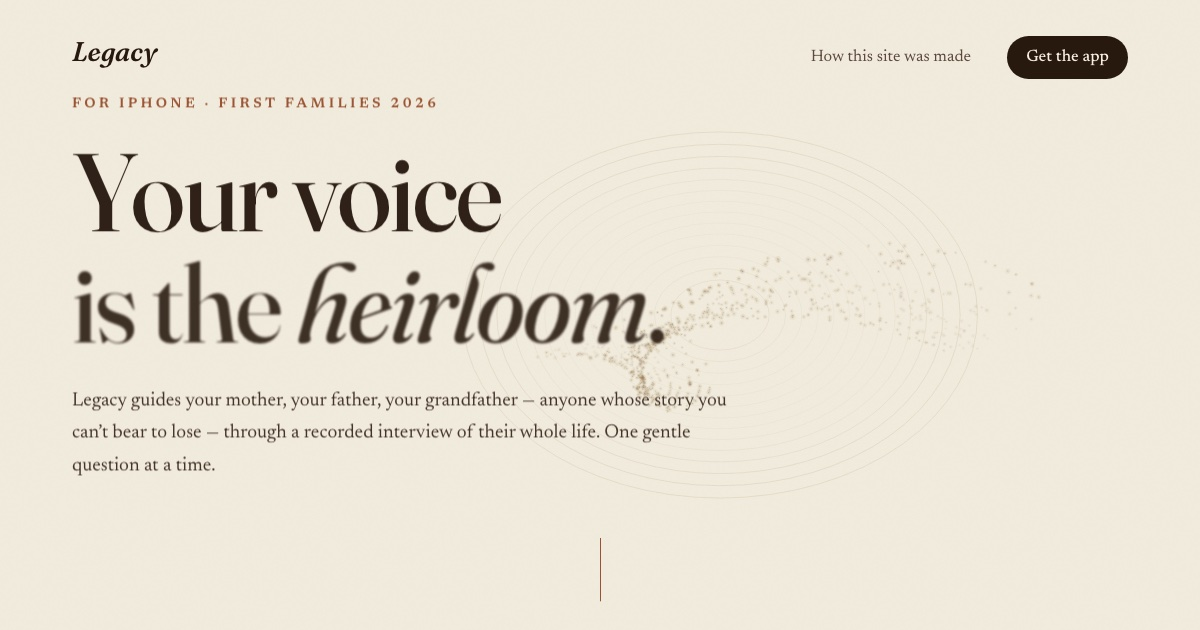
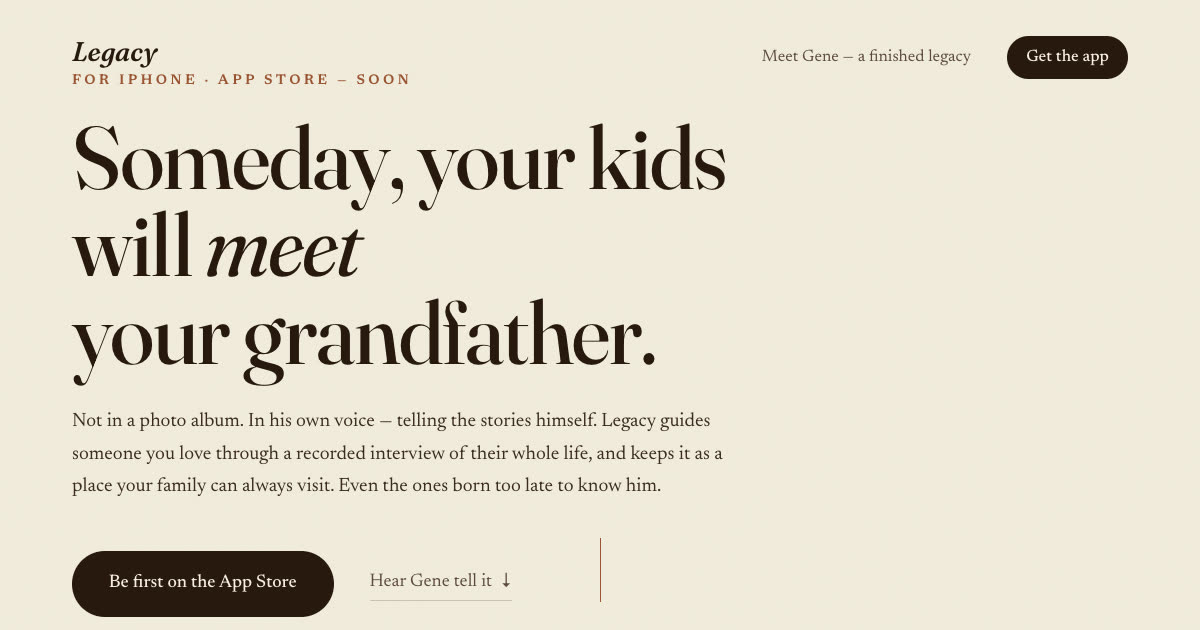
One narrative: Gene everywhere, $99 flat pricing
- Listening room: Gene's yellow-dress answer + porch-swing living picture
- Keepsake mockup now previews the real /example page
- Nav links to Meet Gene instead of the build guide
- Pricing: $99 once, no subscription (free chapters I–II unchanged)
- Fresh og image from the new hero

diff --git a/index.html b/index.html
@@ -32,7 +32,7 @@
 <header class="masthead">
   <a class="wordmark" href="/">Legacy</a>
   <nav aria-label="Site">
-    <a class="nav-link" href="/guide/">How this site was made</a>
+    <a class="nav-link" href="/example/">Meet Gene — a finished legacy</a>
     <a class="nav-cta" href="#waitlist">Get the app</a>
   </nav>
 </header>
@@ -55,7 +55,7 @@
     </p>
     <div class="hero-actions reveal">
       <a class="btn-primary" href="#waitlist">Be first on the App&nbsp;Store</a>
-      <a class="btn-quiet" href="/example/">Meet Gene — a finished legacy<span class="arrow">→</span></a>
+      <a class="btn-quiet" href="#listen">Hear Gene tell it<span class="arrow">↓</span></a>
     </div>
     <div class="scroll-cue" aria-hidden="true"><span></span></div>
   </section>
@@ -147,18 +147,18 @@
 
   <!-- ── IV · THE LISTENING ROOM ──────────────────────────────── -->
   <section class="listening" id="listen" data-scene="wave">
-    <p class="kicker reveal">Chapter one · Early life</p>
+    <p class="kicker reveal">Chapter six · Marriage</p>
     <div class="listening-grid">
       <figure class="portrait reveal">
         <video id="portraitVideo" playsinline muted loop preload="none"
-               poster="/assets/img/portrait.jpg" aria-label="An old sepia photograph of Henry, smiling beside a farmhouse window, gently coming to life"></video>
-        <figcaption>Henry, beside the kitchen window.</figcaption>
+               poster="/assets/img/gene-swing.jpg" aria-label="Gene and Dot laughing together on their porch swing, gently coming to life"></video>
+        <figcaption>Gene and Dot, their sixty-second summer.</figcaption>
       </figure>
       <div class="player-column">
-        <p class="asked reveal"><em>“Where were you born? What were the
-        circumstances surrounding your birth?”</em></p>
+        <p class="asked reveal"><em>“How did you meet your spouse? What were
+        your first impressions?”</em></p>
         <div class="player reveal" id="player">
-          <button id="playBtn" class="play-btn" aria-label="Play Henry’s answer">
+          <button id="playBtn" class="play-btn" aria-label="Play Gene’s answer">
             <svg viewBox="0 0 48 48" aria-hidden="true">
               <circle class="ring-base" cx="24" cy="24" r="22.5"/>
               <circle class="ring-progress" id="ringProgress" cx="24" cy="24" r="22.5" pathLength="100"/>
@@ -168,18 +168,18 @@
           </button>
           <div class="player-meta">
             <canvas id="waveCanvas" aria-hidden="true"></canvas>
-            <div class="player-time"><span id="timeNow">0:00</span><span id="timeEnd">0:17</span></div>
+            <div class="player-time"><span id="timeNow">0:00</span><span id="timeEnd">0:33</span></div>
           </div>
         </div>
         <p class="transcript" id="transcript" aria-live="off"></p>
-        <p class="demo-note reveal">Henry is a demonstration, voiced for this
-        preview. The chair, the window, and the whistling father are waiting
-        for your storyteller.</p>
+        <p class="demo-note reveal">Gene is a demonstration, composed to show
+        you the shape of a finished legacy. The swing, the questions, and the
+        sixty-two years are waiting for your storyteller.</p>
         <a class="btn-quiet listening-example reveal" href="/example/">One answer
-        is a taste — step into a whole finished life<span class="arrow">→</span></a>
+        is a taste — walk through Gene&rsquo;s whole life<span class="arrow">→</span></a>
       </div>
     </div>
-    <audio id="answerAudio" src="/assets/audio/first-sound.m4a" preload="metadata"></audio>
+    <audio id="answerAudio" src="/assets/audio/gene-dot.mp3" preload="metadata"></audio>
   </section>
 
   <!-- ── V · THE QUESTIONS ────────────────────────────────────── -->
@@ -227,29 +227,29 @@
     in their voice. Private by default, shared with one invitation. No
     downloads, no accounts, nothing for the family to figure out.</p>
 
-    <div class="browser reveal" role="img" aria-label="Preview of a personal legacy website at henry-alder.legacyrecording.app">
+    <div class="browser reveal" role="img" aria-label="Preview of Gene Merritt's legacy website at legacyrecording.app/example">
       <div class="browser-bar"><span class="dot"></span><span class="dot"></span><span class="dot"></span>
-        <span class="browser-url">henry-alder.legacyrecording.app</span></div>
+        <span class="browser-url">legacyrecording.app/example</span></div>
       <div class="browser-page">
         <p class="bp-eyebrow">The story of</p>
-        <p class="bp-name">Henry Alder</p>
-        <p class="bp-dates">b. 1946 · told in his own voice</p>
+        <p class="bp-name">Gene Merritt</p>
+        <p class="bp-dates">1936 – 2024 · told in his own voice</p>
         <div class="bp-timeline" aria-hidden="true">
-          <span class="tl-year on">1946</span>
-          <span class="tl-year on">1952</span>
+          <span class="tl-year on">1936</span>
+          <span class="tl-year on">1941</span>
           <span class="tl-year on">1958</span>
-          <span class="tl-year">1964</span>
-          <span class="tl-year">1971</span>
-          <span class="tl-year">now</span>
+          <span class="tl-year on">1961</span>
+          <span class="tl-year">1996</span>
+          <span class="tl-year">2023</span>
         </div>
         <div class="bp-row"><span class="bp-play" aria-hidden="true">▶</span>
-          <div><p class="bp-q">Where were you born?</p>
-          <p class="bp-a">“…the kitchen was always warm, and my father whistled
-          while he worked. That is the first sound I ever loved.”</p></div></div>
+          <div><p class="bp-q">What are your earliest memories?</p>
+          <p class="bp-a">“…you could hear the mill still running — that low
+          hum down the hill. I thought the whole world hummed like that.”</p></div></div>
         <div class="bp-chapters">
           <span class="done">I · Early Life</span>
-          <span class="done">II · Elementary School</span>
-          <span class="now">VI · Marriage — recording</span>
+          <span class="done">V · The Army</span>
+          <span class="now">VIII · Life Lessons — recording</span>
         </div>
       </div>
     </div>
@@ -273,10 +273,11 @@
         because every story deserves a first page.</p>
       </div>
       <div class="tier reveal">
-        <h3>Legacy Pass</h3>
-        <p class="tier-price">$4.99<span>/mo</span> <span class="tier-alt">or $39.99/yr</span></p>
-        <p>All eight chapters. Photographs pinned to memories. Family
-        invitations. The whole life, kept whole.</p>
+        <h3>The whole life</h3>
+        <p class="tier-price">$99<span class="tier-alt">once — no subscription</span></p>
+        <p>All eight chapters. Photographs and film pinned to memories. Family
+        invitations. One payment, and the whole story is your family&rsquo;s
+        for good.</p>
       </div>
     </div>
     <p class="promise-coda reveal">The recordings belong to your family —

diff --git a/js/main.js b/js/main.js
@@ -434,10 +434,12 @@
     const transcriptEl = document.getElementById('transcript');
     const ringEl = document.getElementById('ringProgress');
 
-    const TEXT = 'I was born in the winter of 1946, in my grandmother’s ' +
-      'farmhouse, in the same room where my own mother was born. We didn’t ' +
-      'have much in those days. But I remember the kitchen was always warm, ' +
-      'and my father whistled while he worked. That is the first sound I ever loved.';
+    const TEXT = 'First time I ever saw Dorothy Chandler, she was standing ' +
+      'on the church steps in a yellow dress, laughing at something her ' +
+      'sister said. And I turned to my buddy Ray and I said, Ray, I am ' +
+      'going to marry that girl. He laughed at me. Well. Sixty-two years, ' +
+      'three children, and a whole mess of grandbabies later… I reckon I ' +
+      'got the last laugh.';
     const words = TEXT.split(' ').map(wd => {
       const s = document.createElement('span');
       s.className = 'w';
@@ -522,7 +524,7 @@
         await audio.play();
         audioLive = true;
         playerEl.classList.add('playing');
-        btn.setAttribute('aria-label', 'Pause Henry’s answer');
+        btn.setAttribute('aria-label', 'Pause Gene’s answer');
       } else {
         audio.pause();
       }
@@ -530,7 +532,7 @@
     const stop = () => {
       audioLive = false;
       playerEl.classList.remove('playing');
-      btn.setAttribute('aria-label', 'Play Henry’s answer');
+      btn.setAttribute('aria-label', 'Play Gene’s answer');
       audioBins.fill(0);
     };
     audio.addEventListener('pause', stop);
@@ -549,7 +551,7 @@
       for (const e of entries) {
         if (e.isIntersecting) {
           if (!v.src) {
-            v.src = '/assets/img/portrait-live.mp4';
+            v.src = '/assets/img/gene-swing.mp4';
             v.play().catch(() => {});
           } else {
             v.play().catch(() => {});